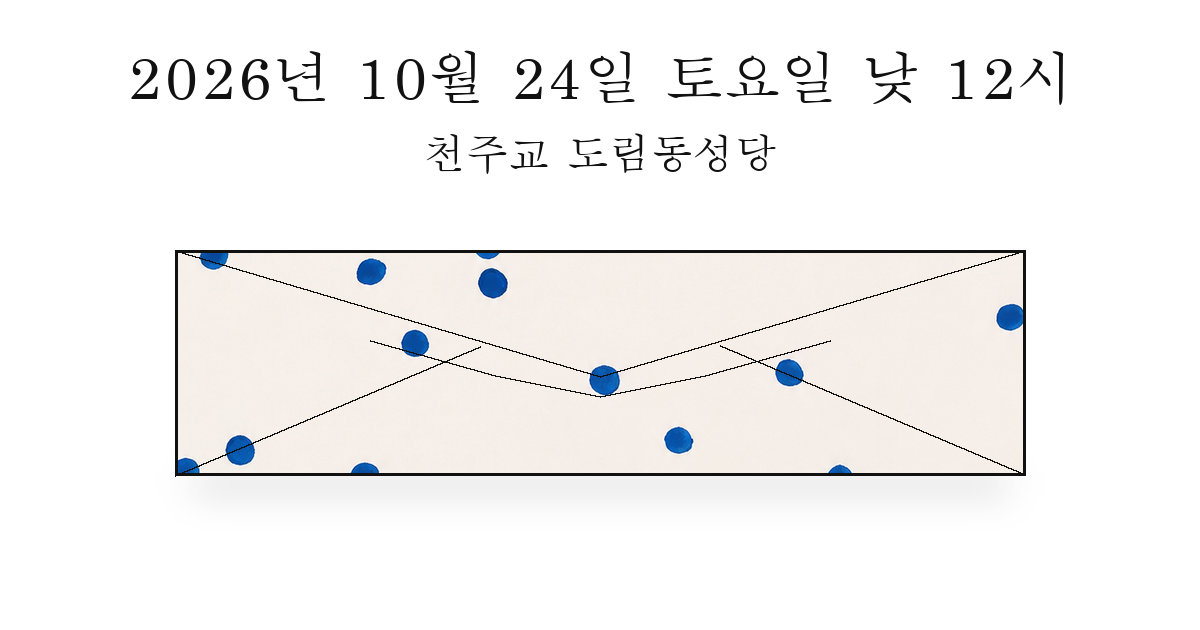
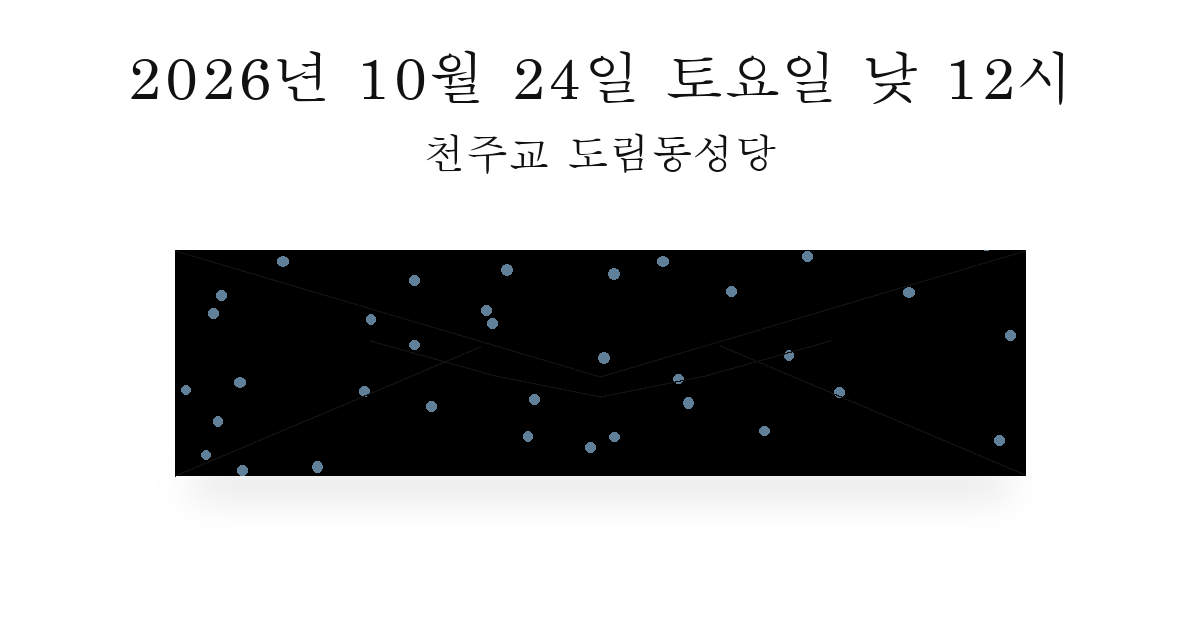
Use individually placed envelope dots

Changed region(s): [[0.1233, 0.3921, 0.8633, 0.754]]

diff --git a/scripts/generate_wedding_og_card.py b/scripts/generate_wedding_og_card.py
@@ -3,22 +3,33 @@ from pathlib import Path
 
 ROOT = Path(__file__).resolve().parents[1]
 OUT = ROOT / 'public' / 'assets' / 'wedding-og-card.png'
-PATTERN = ROOT / 'public' / 'assets' / 'wedding-envelope-pattern.png'
 W, H = 1200, 630
 
 FONT_MYUNGJO = '/System/Library/Fonts/Supplemental/AppleMyungjo.ttf'
+DOTS = [
+    (420.0, -7.2, 7.4), (327.4, 8.9, 7.4), (55.9, 16.6, 7.5),
+    (252.7, 16.7, 7.9), (171.9, 29.5, 7.9), (227.3, 35.0, 8.1),
+    (124.0, 44.4, 7.7), (288.3, 60.8, 7.3), (379.9, 61.9, 7.5),
+    (24.0, 66.6, 7.2), (161.4, 88.4, 7.3), (20.1, 93.6, 7.4),
+    (101.5, 101.9, 7.2), (164.2, 107.9, 7.5), (432.4, 125.5, 7.1),
+    (124.1, 139.1, 7.0), (317.8, 154.3, 7.2), (222.2, 158.0, 7.9),
+    (260.5, 189.2, 7.3), (33.6, 194.4, 7.6), (5.7, 205.5, 6.9),
+    (97.9, 207.4, 7.4), (344.1, 209.0, 7.1), (186.2, 219.5, 7.2),
+    (265.7, 224.4, 7.4), (132.9, 228.9, 7.4), (22.2, 251.2, 7.1),
+    (305.3, 265.7, 7.1), (182.8, 273.3, 7.0), (227.5, 274.2, 7.0),
+    (426.9, 280.0, 7.3), (215.1, 289.1, 7.5), (16.0, 300.8, 7.0),
+    (73.6, 318.3, 7.6), (34.8, 323.6, 7.3), (388.6, 342.7, 7.1),
+]
 
 def font(size):
     return ImageFont.truetype(FONT_MYUNGJO, size)
 
 date_font = font(58)
 place_font = font(42)
-
 img = Image.new('RGB', (W, H), '#ffffff')
 d = ImageDraw.Draw(img)
 cx = W // 2
 
-# Thumbnail elements: date, place, and the confirmed envelope pattern.
 for text, y, f in [
     ('2026년 10월 24일 토요일 낮 12시', 48, date_font),
     ('천주교 도림동성당', 132, place_font),
@@ -26,34 +37,36 @@ for text, y, f in [
     bbox = d.textbbox((0, 0), text, font=f)
     d.text((cx - (bbox[2]-bbox[0]) / 2, y), text, font=f, fill='#111111')
 
-# Envelope, scaled and positioned like the provided reference.
 ex0, ey0, ex1, ey1 = 175, 250, 1025, 475
 line = '#111111'
+cream = '#fbf7e8'
+blue = '#607f99'
 
-# subtle bottom shadow only, matching the reference
 shadow = Image.new('RGBA', (W, H), (0, 0, 0, 0))
 sd = ImageDraw.Draw(shadow)
 sd.rectangle((ex0 + 18, ey1 - 2, ex1 - 18, ey1 + 18), fill=(0, 0, 0, 36))
 shadow = shadow.filter(ImageFilter.GaussianBlur(18))
 img = Image.alpha_composite(img.convert('RGBA'), shadow)
-
-pattern = Image.open(PATTERN).convert('RGB')
-env_w, env_h = ex1 - ex0, ey1 - ey0
-# Crop a wide section from the confirmed paper so dots stay exactly as in the asset.
-ratio = env_w / env_h
-src_w = pattern.width
-src_h = int(src_w / ratio)
-if src_h > pattern.height:
-    src_h = pattern.height
-    src_w = int(src_h * ratio)
-left = (pattern.width - src_w) // 2
-top = int((pattern.height - src_h) * 0.45)
-texture = pattern.crop((left, top, left + src_w, top + src_h)).resize((env_w, env_h), Image.Resampling.LANCZOS)
-img.paste(texture, (ex0, ey0))
 d = ImageDraw.Draw(img)
 
-# Envelope outline and folds.
-d.rectangle((ex0, ey0, ex1, ey1), outline=line, width=3)
+d.rectangle((ex0, ey0, ex1, ey1), fill=cream, outline=line, width=3)
+# Draw every dot as its own true circle: no stretched raster texture.
+# Clip dots to the envelope body so edge dots do not spill outside the paper.
+sx = (ex1 - ex0) / 440
+sy = (ey1 - ey0) / 330
+s = min(sx, sy)
+dot_layer = Image.new('RGBA', (W, H), (0, 0, 0, 0))
+dot_draw = ImageDraw.Draw(dot_layer)
+for x, y, r in DOTS:
+    px = ex0 + x * sx
+    py = ey0 + y * sy
+    rr = r * s
+    dot_draw.ellipse((px-rr, py-rr, px+rr, py+rr), fill=blue)
+mask = Image.new('L', (W, H), 0)
+ImageDraw.Draw(mask).rectangle((ex0, ey0, ex1, ey1), fill=255)
+img = Image.composite(dot_layer, img, mask)
+d = ImageDraw.Draw(img)
+
 mid_x = (ex0 + ex1) // 2
 flap_y = ey0 + 126
 d.line((ex0, ey0, mid_x, flap_y, ex1, ey0), fill=line, width=2)
